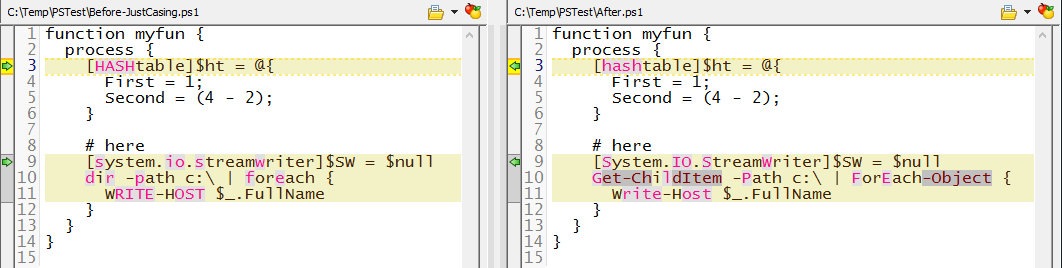
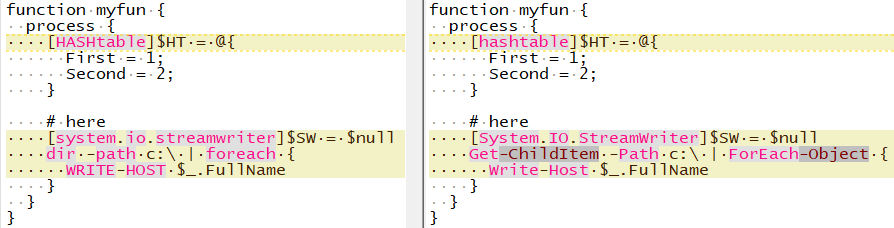
updated before / after images and text

diff --git a/README.md b/README.md
@@ -6,25 +6,26 @@ A whitespace reformatter and code cleaner for Windows PowerShell and PowerShell 
 
 Tabs or spaces; spaces or tabs?  If spaces, how many?  We sure do take whitespace seriously.  But when writing *commit-worthy* PowerShell code, there's more than just whitespace to think about.  Shouldn't you use cmdlet names instead of aliases?  And shouldn't you have correct casing for cmdlets, methods and types?  Especially if you want to support PowerShell Core...?
 
-PowerShell Beautifier is a PowerShell command-line utility for cleaning and reformatting PowerShell script files, written in PowerShell.  Sure, it will change all indentation to tabs or spaces for you - but it will do more than just that.  A picture is worth 1KB words; here's a before/after showing all types of changes including spaces & tabs:
+PowerShell Beautifier is a PowerShell command-line utility for cleaning and reformatting PowerShell script files, written in PowerShell.  Sure, it will change all indentation to tabs or spaces for you - but it will do more than just that.  A picture is worth 1KB words; here's a before/after in VS Code:
+![Before and after - casing](docs/BeforeAfterVSCode.png)
 
+Here are the changes in a diff viewer:
 ![Before and after - casing](docs/Compare_Whitespace.png)
 
-Here's a simpler pic focusing on the alias-replacement and casing changes:
-
+Here's another diff viewer showing only alias-replacement and casing changes:
 ![Before and after - whitespace](docs/Compare_CaseChanges.png)
 
 
 The PowerShell Beautifier makes these changes:
 * properly indents code inside {}, [], () and $() groups
 * cleans/rearranges all whitespace within a line
-* ends files with a new line
 * replaces aliases with the command names: dir → Get-ChildItem
 * fixes command name casing: get-childitem → Get-ChildItem
 * fixes parameter name casing: Test-Path -path → Test-Path -Path
 * fixes [type] casing
 	* changes all PowerShell shortcuts to lower: [STRING] → [string]
 	* changes other types (if in memory): [system.exception] → [System.Exception]
+* ensures file end with a new line.
 
 
 ## Table of Contents
